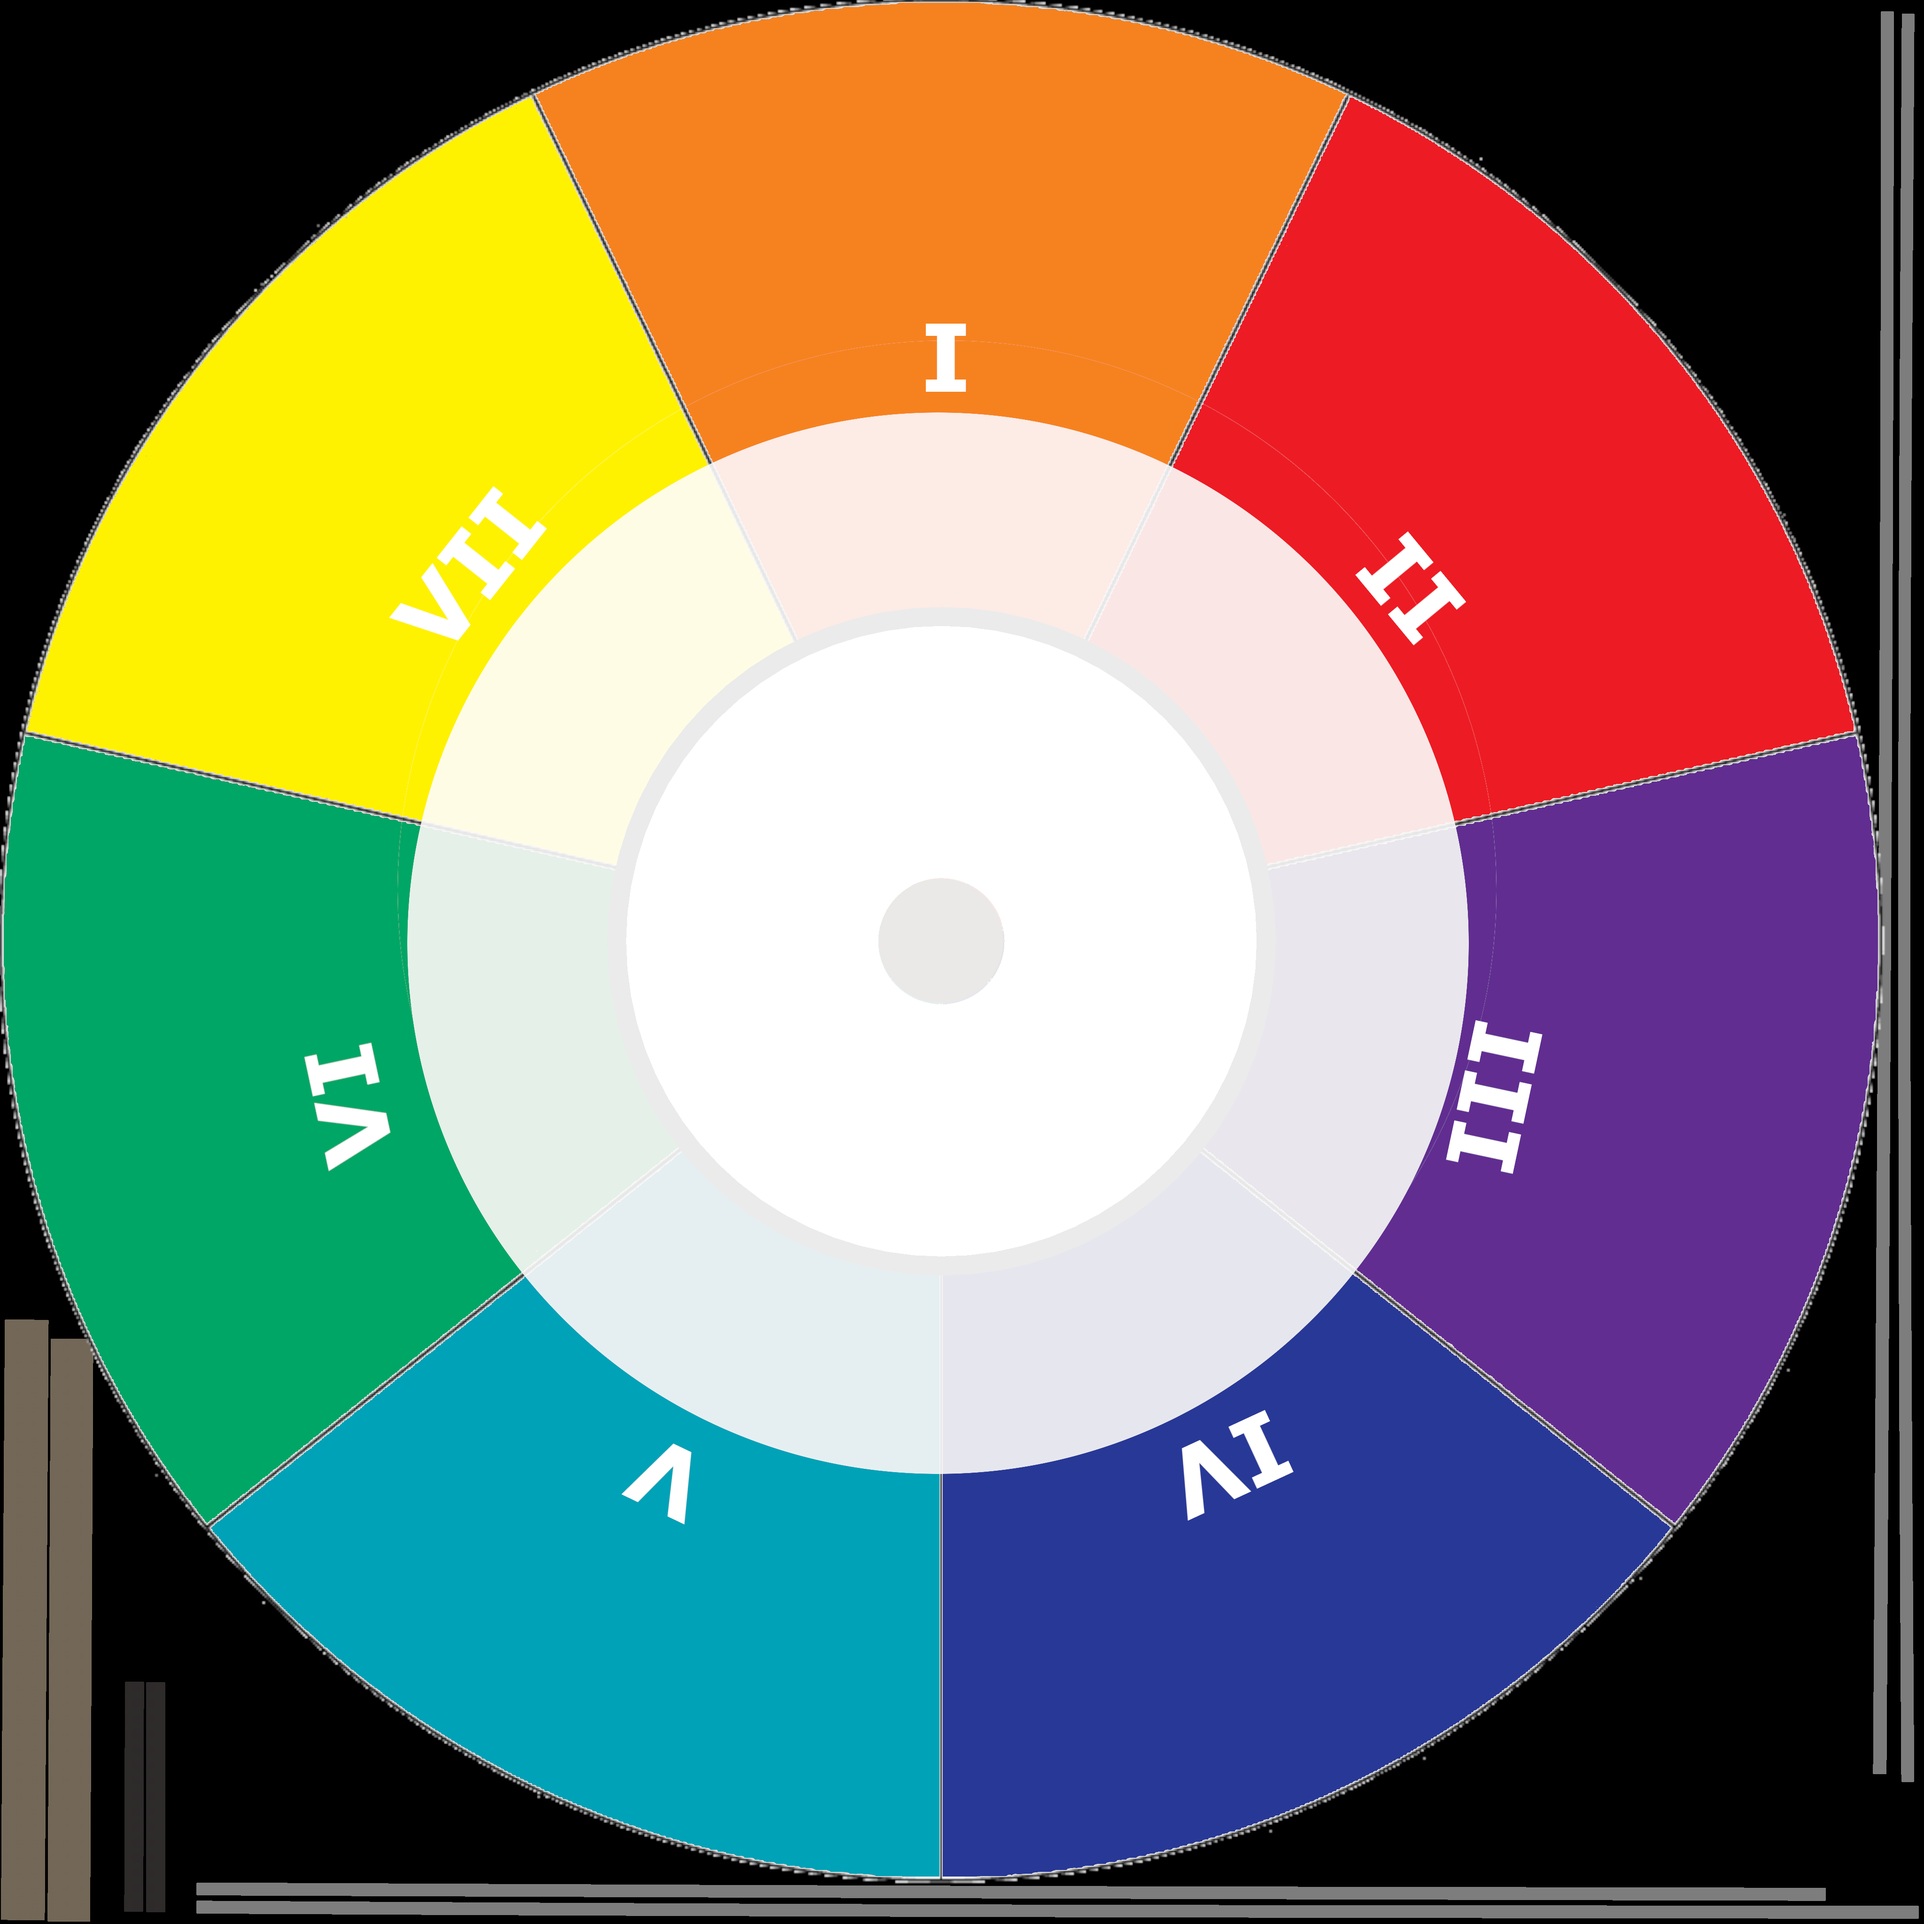
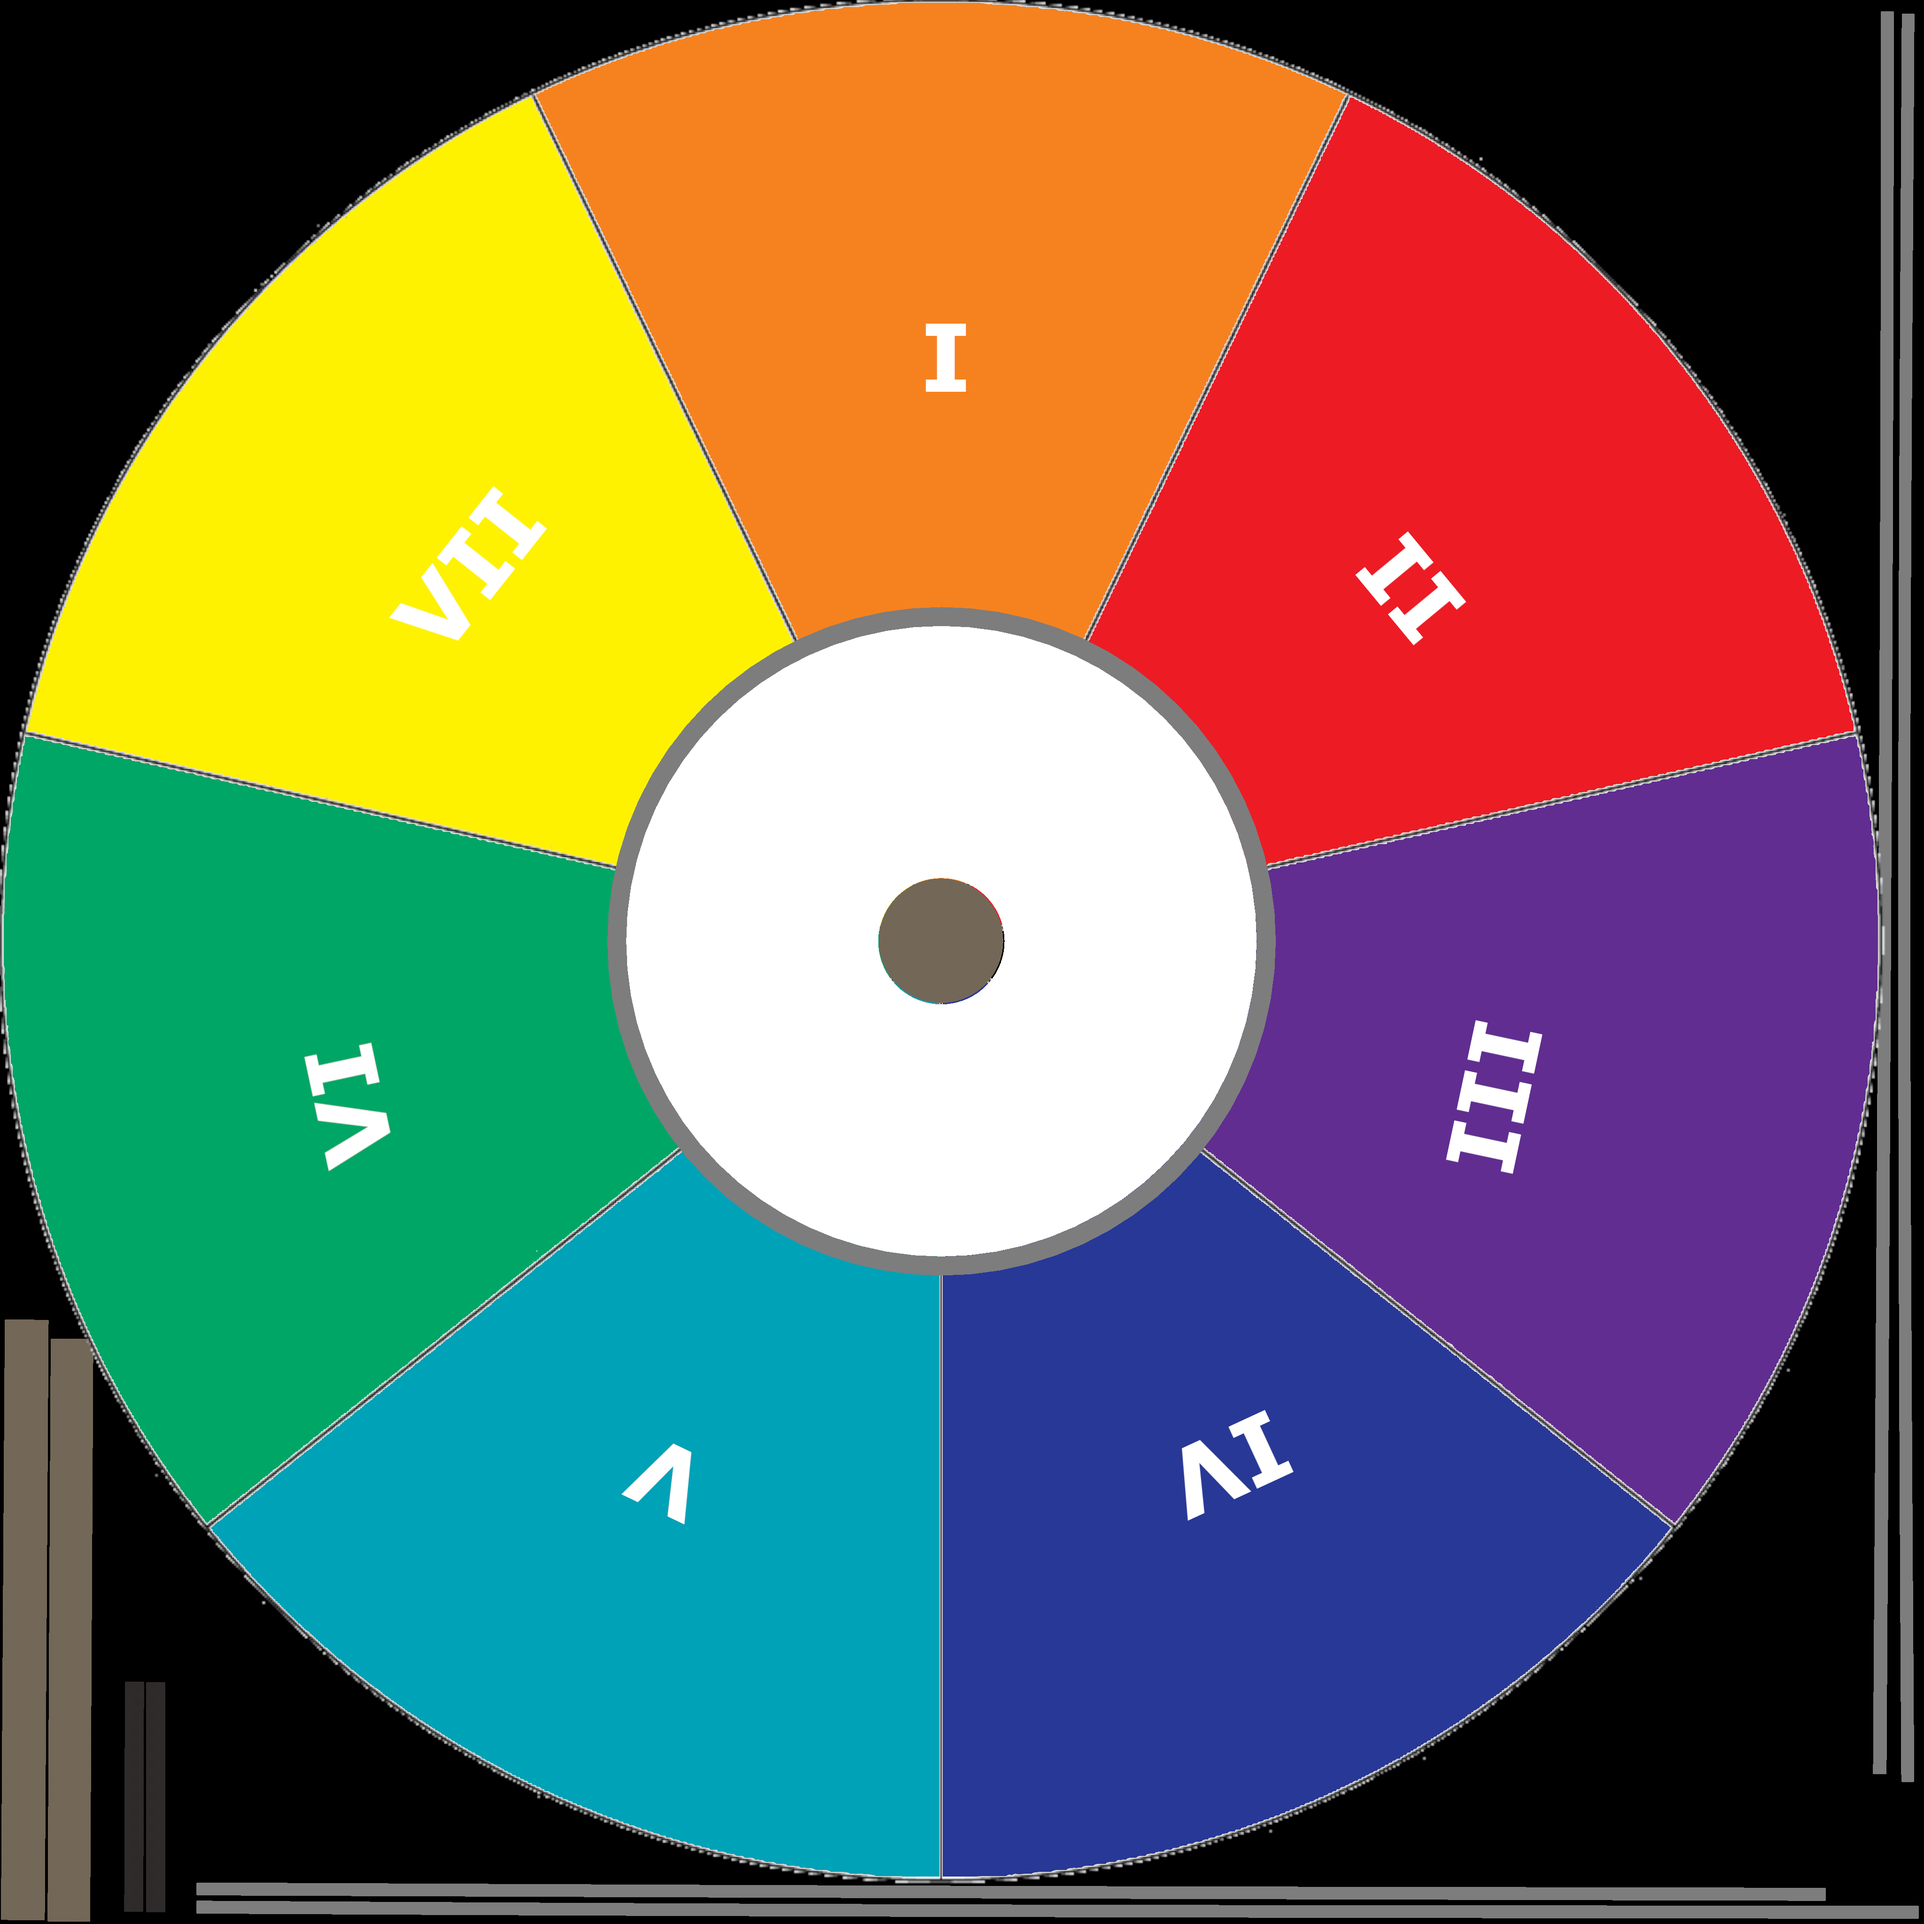
chords

Changed region(s): [[0.1875, 0.1875, 0.7812, 0.7812], [0.4375, 0.4375, 0.5312, 0.5312]]

diff --git a/scripts/gui.js b/scripts/gui.js
@@ -1,4 +1,7 @@
 var spinTime;
+progression = []
+root = 'C4'
+subdivision = 51.4
 
 function spin(){
     startAudioContext();        // Defined in audio.js
@@ -17,79 +20,42 @@ function spin(){
 function pickSlice(){
     let last = 360.0 - last_rotation * 360; // the spinning goes clockwise, so the rotation must be inverted
     let slice;
-    let note;
     
     
-        if(last > 345 && last <= 15) {
+        if(last > 334.3  && last <= 25.7) {
             slice = 0
-            note = 'C3'
         } 
 
-        else if(last > 15 && last <= 45){
+        else if(last > 25.7 && last <= 77.1){
             slice = 1
-            note = 'C#3'
         }
 
-        else if(last > 45 && last <= 75){
+        else if(last > 77.1 && last <= 128.5){
             slice = 2
-            note = 'D3'
 
         }
 
-        else if(last > 75 && last <= 105){
+        else if(last > 128.5 && last <= 180){
             slice = 3
-            note = 'D#3'
 
         }
 
-        else if(last > 105 && last <= 135){
+        else if(last > 180 && last <= 231.4){
             slice = 4
-            note = 'E3'
 
         }
 
-        else if(last > 135 && last <= 165){
-            slice = 4
-            note = 'F3'
+        else if(last > 231.4 && last <= 282.7){
+            slice = 5
 
         }
        
-        else if(last > 165 && last <= 195){
-            slice = 5
-            note = 'F#3'
-        } 
-
-        else if(last > 195 && last <= 225){
+        else if(last > 282.7 && last <= 334.3){
             slice = 6
-            note = 'G3'
         } 
 
-        else if(last > 195 && last <= 225){
-            slice = 7
-            note = 'G#3'
-        } 
-
-        else if(last > 225 && last <= 255){
-            slice = 8
-            note = 'A3'
-        } 
-
-        else if(last > 255 && last <= 285){
-            slice = 9
-            note = 'A#3'
-        } 
-
-        else if(last > 285 && last <= 315){
-            slice = 10
-            note = 'B3'
-        } 
-
-        else if(last > 315 && last <= 345){
-            slice = 11
-            note = 'C4'
-        } 
 
     
     ambientLightColor = colors[slice]
-    piano.triggerAttack(note)
+    playChord(slice)
 }

diff --git a/scripts/variables.js b/scripts/variables.js
@@ -42,16 +42,25 @@ var last_rotation = 0;
 
 
 var colors = [
-    [0.411, 0.141, 0.596, 1.0], // 0 purple
-    [0.117, 0.211, 0.619, 1.0], // 1 blue
-    [0, 0.435, 0.745, 1.0], // 2 azure
-    [0, 0.654, 0.737, 1.0], // 3 turqoise
-    [0, 0.670, 0.376, 1.0], // 4 dark green
-    [0.611, 0.823, 0.176, 1.0], // 5 light green
-    [1, 0.949, 0, 1.0], // 6 yellow
-    [1, 0.674, 0, 1.0], // 7 light orange
-    [1, 0.482, 0, 1.0], // 8 orange
-    [1, 0.278, 0, 1.0], // 9 dark  orange
-    [1, 0.05, 0, 1.0], // 10 red
-    [0.811, 0, 0.447, 1.0] // 11 pink
+
+  [1, 0.482, 0, 1.0], // 0 orange
+  [1, 0.05, 0, 1.0], // 1 red
+  [0.411, 0.141, 0.596, 1.0], // 2 purple
+  [0.117, 0.211, 0.619, 1.0], // 3 blue
+  [0, 0.435, 0.745, 1.0], // 4 azure
+  [0, 0.670, 0.376, 1.0], // 5 dark green
+  [1, 0.949, 0, 1.0], // 6 yellow
 ]
+
+
+var chords = [
+  [0, 3, 7],  // I major
+  [0, 2, 7],
+  [0, 2, 7],
+  [0, 3, 7],
+  [0, 3, 7],
+  [0, 2, 7], // VI minor
+  [0, 3, 6] // VII diminished
+]
+
+var degree = [0, 2, 4, 5, 7, 9, 11] // major

diff --git a/scripts/audio.js b/scripts/audio.js
@@ -7,3 +7,14 @@ piano.toDestination();
 function startAudioContext(){
     Tone.start()
 }
+
+function playChord(index){
+    var chord = chords[index]
+    console.log(chord)
+    chord =  [ 
+        Tone.Frequency('C2').transpose(chord[0] + degree[index] ),
+        Tone.Frequency('C2').transpose(chord[1] + degree[index] ),
+        Tone.Frequency('C2').transpose(chord[2] + degree[index]),
+      ]
+    piano.triggerAttackRelease(chord, '2m')
+}
